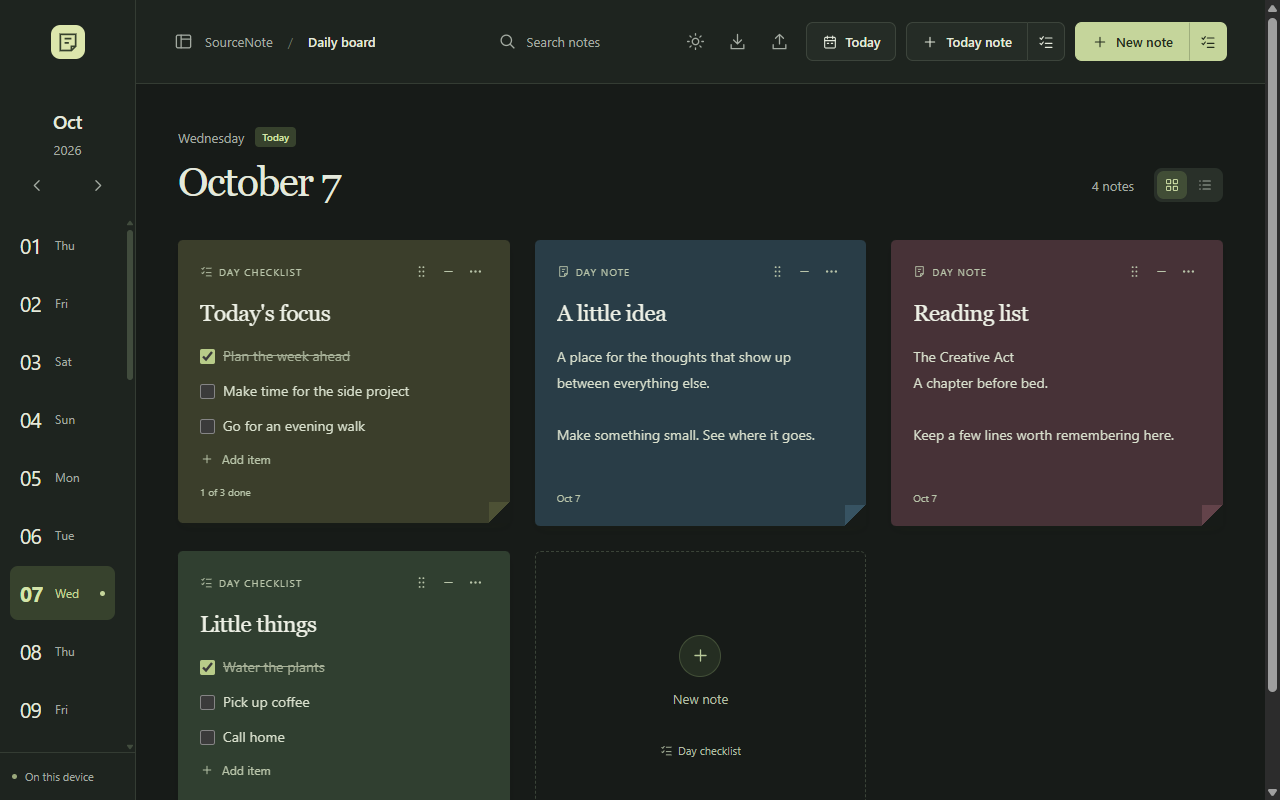
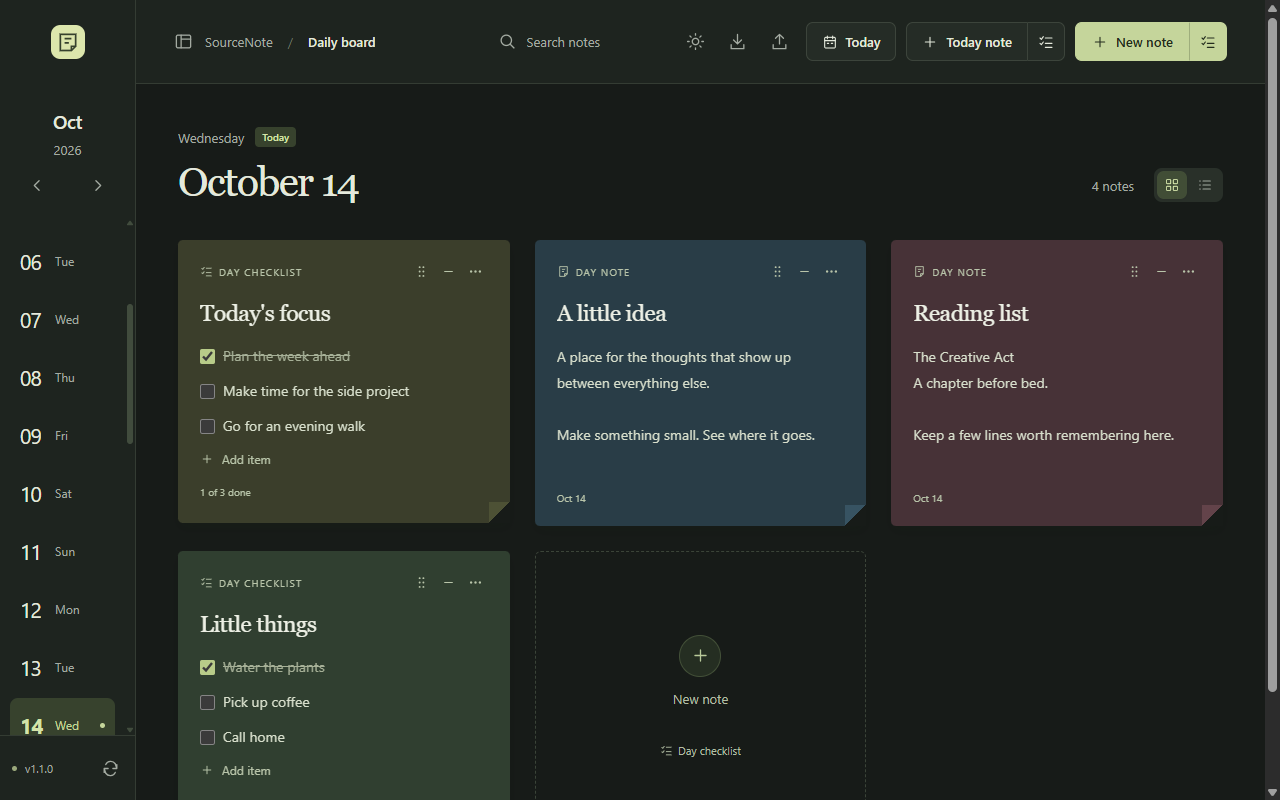
Add Windows installer and release update notifications

diff --git a/index.html b/index.html
@@ -24,7 +24,7 @@
         <div class="month-controls"><button id="prev-month" class="icon-button" aria-label="Previous month" data-icon="left"></button><button id="next-month" class="icon-button" aria-label="Next month" data-icon="right"></button></div>
       </div>
       <nav id="days" class="days" aria-label="Choose a day"></nav>
-      <div class="sidebar-bottom"><span class="local-dot"></span><span>On this device</span></div>
+      <div class="sidebar-bottom"><span class="local-dot"></span><span id="app-version">On this device</span><button id="check-updates" class="icon-button" aria-label="Check for updates" title="Check for updates" data-icon="refresh" hidden></button></div>
     </aside>
     <main>
       <header class="topbar">
@@ -45,6 +45,7 @@
           </div>
         </div>
       </header>
+      <div id="update-notice" class="update-notice" role="status" hidden><span id="update-message"></span><button id="get-update" class="button">Get update</button><button id="dismiss-update" class="icon-button" aria-label="Dismiss update notification" data-icon="close"></button></div>
       <section class="workspace" aria-label="Daily note board">
         <div class="board-heading"><div><div class="weekday-line"><span id="weekday"></span><span id="today-badge" class="today-badge">Today</span></div><h1 id="date-heading"></h1></div><div class="board-tools"><span id="note-count"></span><div class="view-switch" role="group" aria-label="Board layout"><button id="board-view" class="icon-button active" aria-label="Board view" aria-pressed="true" data-icon="grid"></button><button id="list-view" class="icon-button" aria-label="List view" aria-pressed="false" data-icon="list"></button></div></div></div>
         <div id="board" class="board"></div>

diff --git a/styles.css b/styles.css
@@ -31,6 +31,8 @@ svg { width: 19px; height: 19px; flex-shrink: 0; display: block; fill: none; str
 .day-today-dot { background: #35432a; }
 .sidebar-bottom { margin-top: auto; padding: 16px 12px; border-top: 1px solid var(--line); display: flex; gap: 8px; align-items: center; font-size: 11px; color: #737a69; }
 .sidebar-bottom .icon-button { margin-left: auto; width: 25px; }
+.update-notice { display: flex; align-items: center; gap: 12px; padding: 12px 38px; border-bottom: 1px solid var(--line); font-size: 13px; }
+.update-notice .button { margin-left: auto; }
 .local-dot { width: 5px; height: 5px; border-radius: 50%; background: #9aa87b; flex-shrink: 0; }
 main { min-width: 0; }
 .topbar { height: 84px; border-bottom: 1px solid var(--line); padding: 0 38px; background: #fff; display: flex; align-items: center; justify-content: space-between; gap: 18px; }

diff --git a/desktop/Program.cs b/desktop/Program.cs
@@ -3,6 +3,10 @@ using System.Drawing;
 using System.IO;
 using System.Threading.Tasks;
 using System.Runtime.InteropServices;
+using System.Diagnostics;
+using System.Net;
+using System.Net.Http;
+using System.Reflection;
 using System.Web.Script.Serialization;
 using System.Windows.Forms;
 using Microsoft.Web.WebView2.Core;
@@ -25,6 +29,9 @@ internal sealed class NoteWindow : Form
     internal readonly TaskCompletionSource<bool> Ready = new TaskCompletionSource<bool>();
     private readonly string profile;
     private const string Origin = "https://app.sourcenote.local/";
+    private readonly Timer updateTimer = new Timer { Interval = 6 * 60 * 60 * 1000 };
+    private bool checkingUpdates;
+    private Version notifiedVersion;
     [DllImport("dwmapi.dll")]
     private static extern int DwmSetWindowAttribute(IntPtr window, int attribute, ref int value, int size);
 
@@ -38,6 +45,8 @@ internal sealed class NoteWindow : Form
         BackColor = Color.FromArgb(247, 248, 250);
         Icon = Icon.ExtractAssociatedIcon(Application.ExecutablePath);
         profile = dataFolder ?? Path.Combine(Environment.GetFolderPath(Environment.SpecialFolder.LocalApplicationData), "SourceNote", "WebView2");
+        updateTimer.Tick += async (sender, args) => await CheckForUpdates(false);
+        FormClosed += (sender, args) => updateTimer.Dispose();
         View.Dock = DockStyle.Fill;
         Controls.Add(View);
         Shown += async (sender, args) => await Initialize();
@@ -63,6 +72,22 @@ internal sealed class NoteWindow : Form
                 if (!args.Source.StartsWith(Origin, StringComparison.Ordinal)) return;
                 string message = args.TryGetWebMessageAsString();
                 if (message == "import") await ChooseBackup();
+                else if (message == "ready")
+                {
+                    var version = Assembly.GetExecutingAssembly().GetName().Version;
+                    core.PostWebMessageAsJson(new JavaScriptSerializer().Serialize(new { type = "desktop-info", version = version.ToString(3) }));
+                    if (profile == Path.Combine(Environment.GetFolderPath(Environment.SpecialFolder.LocalApplicationData), "SourceNote", "WebView2"))
+                    {
+                        updateTimer.Start();
+                        await CheckForUpdates(false);
+                    }
+                }
+                else if (message == "check-updates") await CheckForUpdates(true);
+                else if (message == "open-update")
+                {
+                    try { Process.Start(new ProcessStartInfo(Updates.Releases + "/latest") { UseShellExecute = true }); }
+                    catch { MessageBox.Show(this, "Open " + Updates.Releases + "/latest in your browser to download the update.", "SourceNote", MessageBoxButtons.OK, MessageBoxIcon.Information); }
+                }
                 else if (message == "theme:dark" || message == "theme:light")
                 {
                     int dark = message == "theme:dark" ? 1 : 0;
@@ -85,6 +110,34 @@ internal sealed class NoteWindow : Form
             MessageBox.Show(this, "SourceNote could not start. Make sure Microsoft Edge WebView2 Runtime is installed.\n\n" + error.Message, "SourceNote", MessageBoxButtons.OK, MessageBoxIcon.Error);
             Close();
         }
+    }
+
+    private async Task CheckForUpdates(bool manual)
+    {
+        if (checkingUpdates) return;
+        checkingUpdates = true;
+        try
+        {
+            ServicePointManager.SecurityProtocol = SecurityProtocolType.Tls12;
+            using (var client = new HttpClient { Timeout = TimeSpan.FromSeconds(15), MaxResponseContentBufferSize = 1024 * 1024 })
+            {
+                var current = Assembly.GetExecutingAssembly().GetName().Version;
+                client.DefaultRequestHeaders.UserAgent.ParseAdd("SourceNote/" + current.ToString(3));
+                var latest = Updates.NewerVersion(await client.GetStringAsync(Updates.Api), current);
+                if (IsDisposed) return;
+                if (latest != null && (manual || latest != notifiedVersion))
+                {
+                    View.CoreWebView2.PostWebMessageAsJson(new JavaScriptSerializer().Serialize(new { type = "update", version = latest.ToString(3) }));
+                    notifiedVersion = latest;
+                }
+                else if (manual && latest == null) MessageBox.Show(this, "You're using the latest available version of SourceNote.", "SourceNote " + current.ToString(3), MessageBoxButtons.OK, MessageBoxIcon.Information);
+            }
+        }
+        catch
+        {
+            if (manual && !IsDisposed) MessageBox.Show(this, "Updates could not be checked. Check your internet connection and try again.", "SourceNote", MessageBoxButtons.OK, MessageBoxIcon.Information);
+        }
+        finally { checkingUpdates = false; }
     }
 
     private void SaveDownload(object sender, CoreWebView2DownloadStartingEventArgs args)

diff --git a/desktop/Smoke.cs b/desktop/Smoke.cs
@@ -25,6 +25,7 @@ internal static class Smoke
                 await RunScript(form, @"
                     if (document.querySelector('#board').children.length < 4) throw Error('App did not render');
                     if (document.querySelector('#import').hidden) throw Error('Desktop import is unavailable');
+                    if (!document.querySelector('#check-updates') || document.querySelector('#check-updates').hidden) throw Error('Desktop update control is unavailable');
                     const toggle = document.querySelector('#theme-toggle');
                     if (!toggle) throw Error('Theme toggle is unavailable');
                     if (document.documentElement.dataset.theme === 'dark') toggle.click();
@@ -64,6 +65,14 @@ internal static class Smoke
                     document.querySelector('#theme-toggle').click();
                     if (document.documentElement.dataset.theme !== 'light') throw Error('Light mode could not be restored');
                 ");
+                form.View.CoreWebView2.PostWebMessageAsJson("{\"type\":\"update\",\"version\":\"1.2.0\"}");
+                await RunScript(form, @"
+                    await new Promise(resolve => requestAnimationFrame(resolve));
+                    if (document.querySelector('#update-notice').hidden || !document.querySelector('#update-message').textContent.includes('1.2.0')) throw Error('Update notification was not shown');
+                    document.querySelector('#dismiss-update').click();
+                    if (!document.querySelector('#update-notice').hidden) throw Error('Update notification could not be dismissed');
+                    if (!document.querySelector('#app-version').textContent.startsWith('v')) throw Error('Installed version is unavailable');
+                ");
                 string previous = Json.Deserialize<string>(await form.View.CoreWebView2.ExecuteScriptAsync("localStorage.getItem('sourcenote.v1')"));
                 string backup = Path.Combine(output, "import.json");
                 File.WriteAllText(backup, "{\"version\":1,\"notes\":[{\"id\":\"import-test\",\"date\":null,\"title\":\"Imported notes\",\"body\":\"Local Windows app\",\"color\":\"green\",\"kind\":\"note\",\"items\":[]}]}");
@@ -80,7 +89,7 @@ internal static class Smoke
                 if (backups.Length == 0 || File.ReadAllText(backups[backups.Length - 1]) != previous) throw new Exception("Previous notes were not backed up");
                 await RunScript(form, "document.querySelector('#theme-toggle').click();");
                 using (var image = File.Create(Path.Combine(output, "dark-preview.png"))) await form.View.CoreWebView2.CapturePreviewAsync(CoreWebView2CapturePreviewImageFormat.Png, image);
-                File.WriteAllText(Path.Combine(output, "result.txt"), "PASS: Native Windows startup, offline UI, scheduled tasks, completion sync, storage, backup import, and persistent dark/light mode.");
+                File.WriteAllText(Path.Combine(output, "result.txt"), "PASS: Native Windows startup, scheduling, storage, backup import, dark/light mode, and update notification without changing notes.");
                 Environment.ExitCode = 0;
             }
             catch (Exception error)

diff --git a/desktop/Updates.Check.cs b/desktop/Updates.Check.cs
@@ -1,0 +1,29 @@
+using System;
+
+internal static class UpdateCheck
+{
+    private static void Main()
+    {
+        var current = new Version(1, 1, 0, 0);
+        const string valid = "{\"tag_name\":\"v1.2.0\",\"draft\":false,\"prerelease\":false,\"assets\":[{\"name\":\"SourceNote-Setup.exe\",\"state\":\"uploaded\",\"browser_download_url\":\"https://github.com/AliNajafpour/SourceNote/releases/download/v1.2.0/SourceNote-Setup.exe\"}]}";
+        Check(Updates.NewerVersion(valid, current) == new Version(1, 2, 0, 0), "New installer release was missed");
+        Check(Updates.NewerVersion(valid, new Version(1, 2, 0, 0)) == null, "Equal release was treated as newer");
+        Check(Updates.NewerVersion(valid, new Version(2, 0, 0, 0)) == null, "Downgrade was offered");
+        foreach (var invalid in new[] {
+            valid.Replace("\"draft\":false", "\"draft\":true"),
+            valid.Replace("\"prerelease\":false", "\"prerelease\":true"),
+            valid.Replace("v1.2.0", "v1.2.0-beta"),
+            valid.Replace("v1.2.0", "v999999999999.2.0"),
+            valid.Replace("https://github.com/", "https://example.com/"),
+            valid.Replace("AliNajafpour/SourceNote/", "someone/SourceNote/"),
+            valid.Replace("SourceNote-Setup.exe", "SourceNote-Windows.zip"),
+            valid.Replace("uploaded", "new"), "{}", "[]"
+        }) Check(Updates.NewerVersion(invalid, current) == null, "Unsafe or incomplete release was accepted");
+        bool rejected = false;
+        try { Updates.NewerVersion("{broken", current); } catch (ArgumentException) { rejected = true; }
+        Check(rejected, "Malformed response was accepted");
+        Console.WriteLine("PASS: Update versions, downgrade prevention, stable releases, installer ownership, and incomplete responses.");
+    }
+
+    private static void Check(bool condition, string message) { if (!condition) throw new Exception(message); }
+}

diff --git a/desktop/Updates.cs b/desktop/Updates.cs
@@ -1,0 +1,31 @@
+using System;
+using System.Collections.Generic;
+using System.Text.RegularExpressions;
+using System.Web.Script.Serialization;
+
+internal static class Updates
+{
+    internal const string Releases = "https://github.com/AliNajafpour/SourceNote/releases";
+    internal const string Api = "https://api.github.com/repos/AliNajafpour/SourceNote/releases/latest";
+
+    internal static Version NewerVersion(string json, Version current)
+    {
+        var release = new JavaScriptSerializer { MaxJsonLength = 1024 * 1024 }.DeserializeObject(json) as Dictionary<string, object>;
+        if (release == null || !release.ContainsKey("draft") || !false.Equals(release["draft"]) ||
+            !release.ContainsKey("prerelease") || !false.Equals(release["prerelease"]) || !release.ContainsKey("tag_name")) return null;
+        string tag = release["tag_name"] as string;
+        Version version;
+        if (tag == null || !Regex.IsMatch(tag, @"^v[0-9]+\.[0-9]+\.[0-9]+$") ||
+            !Version.TryParse(tag.Substring(1) + ".0", out version) || version <= current) return null;
+        object assets;
+        if (!release.TryGetValue("assets", out assets) || !(assets is object[])) return null;
+        foreach (object entry in (object[])assets)
+        {
+            var asset = entry as Dictionary<string, object>;
+            if (asset != null && asset.ContainsKey("name") && "SourceNote-Setup.exe".Equals(asset["name"]) &&
+                asset.ContainsKey("state") && "uploaded".Equals(asset["state"]) && asset.ContainsKey("browser_download_url") &&
+                (Releases + "/download/" + tag + "/SourceNote-Setup.exe").Equals(asset["browser_download_url"])) return version;
+        }
+        return null;
+    }
+}

diff --git a/README.md b/README.md
@@ -9,19 +9,29 @@ A personal daily planner with sticky notes, checklists, and tasks assigned to da
 ## Install on Windows
 
 1. Open the [latest release](https://github.com/AliNajafpour/SourceNote/releases/latest).
-2. Under **Assets**, download **SourceNote-Windows.zip**.
-3. Right-click the ZIP and choose **Extract All**.
-4. Open the extracted folder and double-click **SourceNote.exe**.
+2. Under **Assets**, download **SourceNote-Setup.exe**.
+3. Close any running SourceNote window, then run the setup file.
+4. Open **SourceNote** from the Start menu. A desktop shortcut is optional during setup.
 
-Keep the `app` folder and DLL files beside `SourceNote.exe`. You can create a desktop shortcut to the executable. No installer, account, Node.js, or web server is needed to run the Windows app.
+Setup installs for your Windows account under `%LOCALAPPDATA%\Programs\SourceNote`, normally `C:\Users\<you>\AppData\Local\Programs\SourceNote`. It creates the Start menu shortcut with the app icon and an entry in Windows **Installed apps**. No administrator password, account, Node.js, or web server is needed.
 
-Requires **64-bit Windows 10 or 11**, [.NET Framework 4.8](https://dotnet.microsoft.com/en-us/download/dotnet-framework/net48), and [Microsoft Edge WebView2 Runtime](https://developer.microsoft.com/en-us/microsoft-edge/webview2/). If WebView2 is missing, install the **Evergreen Standalone Installer for x64**, then reopen SourceNote.
+Requires **64-bit Windows 10 or 11**, [.NET Framework 4.8](https://dotnet.microsoft.com/en-us/download/dotnet-framework/net48), and [Microsoft Edge WebView2 Runtime](https://developer.microsoft.com/en-us/microsoft-edge/webview2/). Setup checks for these prerequisites before installing. If WebView2 is missing, install Microsoft's **x64 Evergreen Runtime** and run setup again. The installer and note board work offline when these prerequisites are present.
 
-The executable is unsigned, so Windows may display a publisher warning. Release downloads include `SHA256SUMS.txt`; you can check a downloaded ZIP in PowerShell with `Get-FileHash .\SourceNote-Windows.zip -Algorithm SHA256`.
+The app and setup file are unsigned, so Windows may display a publisher warning. Release downloads include `SHA256SUMS.txt`; check a setup download in PowerShell with `Get-FileHash .\SourceNote-Setup.exe -Algorithm SHA256`.
 
 ### Update
 
-Close SourceNote, download the latest ZIP, and extract it into a new folder. Launch the new `SourceNote.exe` and update your shortcut. Your notes are stored separately from the app and remain available after updating. Export a backup before updating.
+SourceNote checks GitHub for a newer stable release when it opens and every six hours while running. A small notification appears when a newer Windows installer is available. Click **Get update** to open the release page, download **SourceNote-Setup.exe**, close SourceNote, and run setup. It upgrades the same folder and preserves your notes and backups. Updates are installed only when you choose to run setup.
+
+The refresh button at the bottom of the calendar checks manually; the adjacent label shows the installed version. Offline checks fail quietly and do not affect your notes. Checking updates sends a request to GitHub for public release metadata; it does not send your notes.
+
+Before updating, export a backup. To move from the old portable release, close it and run setup. Your existing Windows notes are picked up automatically because the data folder stays the same. Replace any old pinned `SourceNote.exe` entry with the installed **SourceNote** shortcut once.
+
+### Uninstall or use the portable version
+
+Uninstall through Windows **Settings → Apps → Installed apps → SourceNote**. Uninstall removes the program and its installer-created shortcuts; it retains notes and backups in `%LOCALAPPDATA%\SourceNote`.
+
+For a portable copy, download **SourceNote-Windows.zip**, extract the entire ZIP, and open **SourceNote.exe**. Keep the `app` folder and DLLs beside it. Update a portable copy by extracting a newer ZIP into a new folder. Close the previous copy before opening the new one. Windows portable and installed copies share the same notes folder.
 
 ## How to use
 
@@ -100,11 +110,15 @@ On 64-bit Windows with .NET Framework 4.8 and Node.js 22 or newer:
 ```sh
 npm run build:windows
 npm run test:windows
+npm run build:installer
+npm run test:installer
 ```
 
-The first build downloads Microsoft's pinned WebView2 SDK from NuGet. Output is `dist/SourceNote/SourceNote.exe` and `dist/SourceNote-Windows.zip`. The native test requires the WebView2 Runtime, launches a temporary app window, and uses an isolated test profile. It checks startup, scheduling, completion sync, storage, backup import, and theme persistence.
+The first desktop build downloads Microsoft's pinned WebView2 SDK from NuGet. Output is `dist/SourceNote/SourceNote.exe` and `dist/SourceNote-Windows.zip`. The native test requires the WebView2 Runtime and uses an isolated profile. It checks scheduling, storage, backups, themes, release validation, and update notifications.
 
-GitHub Actions runs the model checks and builds the Windows ZIP on pushes and pull requests. Pushing a `v*` tag also publishes the ZIP and its SHA-256 checksum as a GitHub release. The native UI check runs locally; CI builds do not run it.
+The installer build downloads the checksum-verified Inno Setup 6.7.3 compiler into `desktop/vendor/inno`. Output is `dist/SourceNote-Setup.exe`. Installer verification uses a unique test app registration and folder; it checks installation, upgrading, shortcuts, downgrade prevention, and uninstall behavior without using your notes profile.
+
+GitHub Actions runs model and installer checks and builds both Windows downloads on pushes and pull requests. To ship a release, update `package.json` and the changelog, then push a matching tag such as `v1.1.0`. CI rejects tags that differ from the package version and publishes the setup file, portable ZIP, and SHA-256 checksums. Existing installations detect the new release during their next update check. The native UI check runs locally.
 
 ## Troubleshooting
 

diff --git a/CHANGELOG.md b/CHANGELOG.md
@@ -1,5 +1,14 @@
 # Changelog
 
+## 1.1.0 — 2026-10-14
+
+- Windows installer with a stable per-user install folder, Start menu icon, optional desktop shortcut, and uninstall support.
+- New installers upgrade the existing installation while retaining notes and backups; older installers cannot downgrade it.
+- Automatic GitHub release checks at launch and every six hours, with a notification and a user-controlled download step.
+- Installed version and manual update check in the calendar sidebar.
+- Prerequisite checks for .NET Framework and Microsoft WebView2 Runtime before installation.
+- Installer upgrade/uninstall checks and validation of release versions and download ownership.
+
 ## 1.0.0 — 2026-10-07
 
 - First Windows release with an offline daily board.
